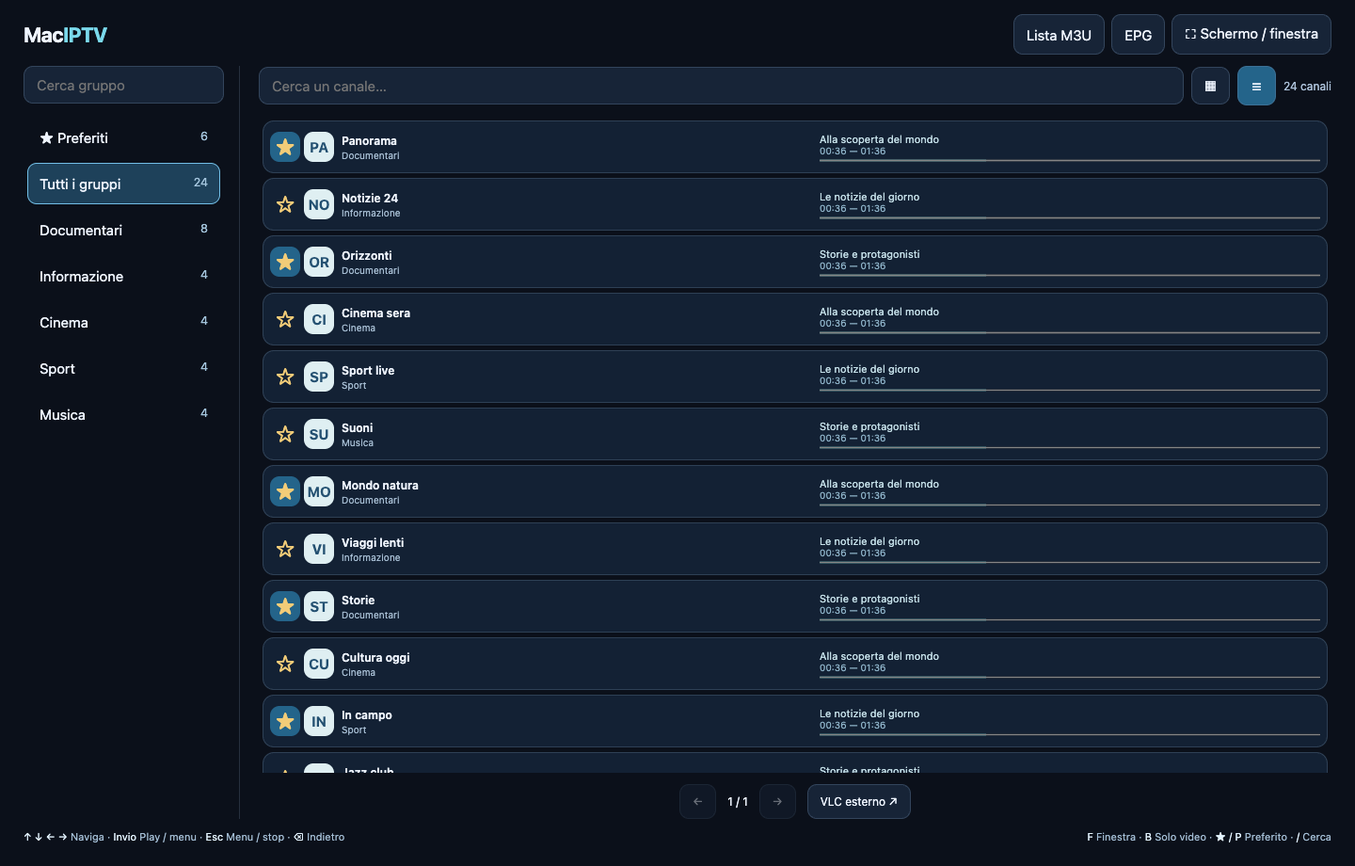
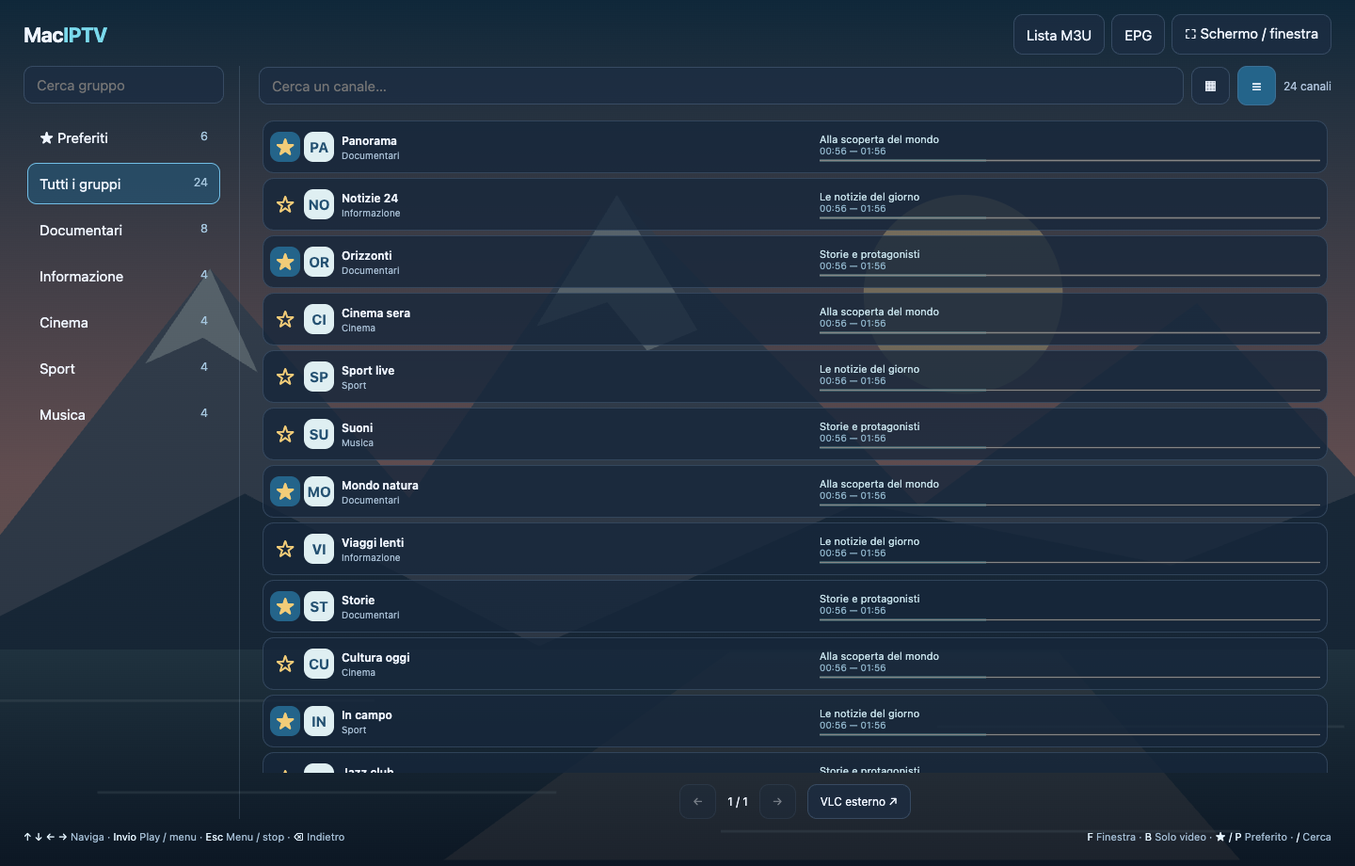
Release stable 1.2.0 with responsive overlays and illustrated catalog background

Changed region(s): [[0.0, 0.0, 1.0, 0.8826], [0.0938, 0.8522, 0.9062, 0.9739]]

diff --git a/docs/index.html b/docs/index.html
@@ -1,12 +1,12 @@
 <!doctype html>
 <html lang="it"><head><meta charset="utf-8"><meta name="viewport" content="width=device-width,initial-scale=1"><title>MacIPTV — La tua IPTV, sul Mac.</title><meta name="description" content="Player IPTV standalone per Mac Intel e Apple Silicon. Liste M3U, gruppi, preferiti, menu sul video e finestra sempre in primo piano. Download Universal gratuito."><meta property="og:title" content="MacIPTV — La tua IPTV, sul Mac."><meta property="og:description" content="Carica la tua lista. Scegli un canale. Guarda come vuoi. Un’unica app per Intel e Apple Silicon."><meta property="og:image" content="https://spacecdr.github.io/MacIPTV/assets/catalogo.png"><meta property="og:url" content="https://spacecdr.github.io/MacIPTV/"><meta name="theme-color" content="#09111b"><link rel="icon" href="assets/icon.svg" type="image/svg+xml"><link rel="stylesheet" href="style.css"></head>
 <body><a class="skip" href="#main">Vai al contenuto</a><header class="nav wrap"><a href="#" class="wordmark"><img src="assets/icon.svg" width="36" height="36" alt="">Mac<span>IPTV</span></a><nav aria-label="Navigazione principale"><a href="#funzioni">Funzionalità</a><a href="#tecnologie">Tecnologie</a><a href="#requisiti">Requisiti</a><a href="https://github.com/spacecdr/MacIPTV" class="github">GitHub ↗</a></nav></header>
-<main id="main"><section class="hero wrap"><div class="eyebrow"><span class="dot"></span> VERSIONE 1.1.5 · OPEN SOURCE</div><h1>La tua IPTV.<br><span>Il tuo Mac.</span></h1><p class="lead">Carica la tua lista. Ritrova i tuoi canali.<br>Guarda a schermo intero o tieni il video accanto a quello che fai.</p><div class="actions"><a class="button primary" href="https://github.com/spacecdr/MacIPTV/releases/download/v1.1.5/MacIPTV-universal.zip">↓ Scarica per macOS <span>Universal</span></a><a class="button secondary" href="https://github.com/spacecdr/MacIPTV">Esplora il progetto ↗</a></div><p class="download-note">Intel + Apple Silicon · macOS 13+ · VLC già incluso</p><a class="small-note" href="#installazione">Prima installazione: firma locale, app non notarizzata →</a><figure class="hero-shot"><div class="window-bar"><span class="lights"><i></i><i></i><i></i></span><span>MacIPTV · Il tuo catalogo</span><span class="window-badge">M3U</span></div><a href="assets/catalogo.png" aria-label="Apri lo screenshot del catalogo"><img src="assets/catalogo.png" width="1440" height="920" alt="Catalogo MacIPTV in griglia con gruppi a sinistra, ricerca e stelle dei preferiti" fetchpriority="high"></a><figcaption>Interfaccia reale, catalogo dimostrativo. Nessuna lista inclusa.</figcaption></figure></section>
+<main id="main"><section class="hero wrap"><div class="eyebrow"><span class="dot"></span> VERSIONE 1.2.0 STABILE · OPEN SOURCE</div><h1>La tua IPTV.<br><span>Il tuo Mac.</span></h1><p class="lead">Carica la tua lista. Ritrova i tuoi canali.<br>Guarda a schermo intero o tieni il video accanto a quello che fai.</p><div class="actions"><a class="button primary" href="https://github.com/spacecdr/MacIPTV/releases/latest/download/MacIPTV-universal.zip">↓ Scarica per macOS <span>Universal</span></a><a class="button secondary" href="https://github.com/spacecdr/MacIPTV">Esplora il progetto ↗</a></div><p class="download-note">Intel + Apple Silicon · macOS 13+ · VLC già incluso</p><a class="small-note" href="#installazione">Prima installazione: firma locale, app non notarizzata →</a><figure class="hero-shot"><div class="window-bar"><span class="lights"><i></i><i></i><i></i></span><span>MacIPTV · Il tuo catalogo</span><span class="window-badge">M3U</span></div><a href="assets/catalogo.png" aria-label="Apri lo screenshot del catalogo"><img src="assets/catalogo.png" width="1440" height="920" alt="Catalogo MacIPTV in griglia con gruppi a sinistra, ricerca e stelle dei preferiti" fetchpriority="high"></a><figcaption>Interfaccia reale, catalogo dimostrativo. Nessuna lista inclusa.</figcaption></figure></section>
 <div class="strip"><div class="wrap strip-grid"><span><b>Un solo download</b>Due architetture native</span><span><b>Player integrato</b>Motore VLC 3.0.24</span><span><b>Anche da tastiera</b>Frecce, Invio, Esc</span><span><b>I dati restano sul Mac</b>Lista e preferiti locali</span></div></div>
-<section class="wrap section"><span class="eyebrow">NOVITÀ 1.1.0</span><h2>Informazioni, guide e più playlist.</h2><p><b>Novità 1.1.5:</b> barra compatta con modali Lista ed EPG; telecomando nelle info, che restano aperte con il mouse sopra e si chiudono con Esc o Backspace. <b>Dalla 1.1.4:</b> risolto il crash al ritorno in finestra dopo lo stop e successivi passaggi fullscreen. <b>Dalla 1.1.3:</b> clic singolo per le info, Esc per aprire l’OSD e poi fermare il video, telecomando visibile solo durante la riproduzione ed elenco compatto con EPG al posto degli URL. Dalla 1.1.2: associazione automatica tramite ID normalizzati e nomi, senza modificare le playlist; protezione dalle ambiguità e dai canali +1/+24. Nel pannello sono distinti i metodi di associazione. Restano disponibili stato EPG visibile, errori di download/XMLTV, conteggi dei canali associati e programmi disponibili, esempi degli ID e pulsante Riprova EPG.</p><p>Premi I per nome, logo, risoluzione e programmi attuale/successivo: il riquadro sfuma dopo 5 secondi. Le guide XMLTV vengono rilevate dalla lista, caricate in background e conservate localmente. Nel catalogo, programma attuale e progressbar; dettagli solo nelle informazioni.</p><p>Il pulsante + aggiunge altre playlist, ognuna con preferiti e navigazione indipendenti. Posizione e dimensioni delle finestre vengono ricordate. B attiva il borderless soltanto durante il video; Esc apre l’OSD e, premuto nell’OSD, ferma il video. B torna alla modalità precedente. Clic tenuto per trascinare, doppio clic per fullscreen e ritorno. Durante il video il ridimensionamento mantiene il rapporto corretto.</p></section><section class="wrap section" id="funzioni"><div class="section-intro"><span class="eyebrow">01 / IL CATALOGO</span><h2>Tutto al suo posto.<br>Subito a portata di mano.</h2><p>Importa una lista da file o URL. Cerca tra i gruppi, filtra i canali e scegli la vista che preferisci.</p></div><div class="feature-grid"><article class="feature"><span class="feature-number">01</span><h3>Le tue liste, senza passaggi extra.</h3><p>File M3U o indirizzo HTTP/HTTPS. Aggiorna le liste remote ed esporta quella salvata. Se l’importazione fallisce, il catalogo precedente resta disponibile.</p><div class="pills"><span>File e URL</span><span>Aggiornamento</span><span>Export</span></div></article><article class="feature"><span class="feature-number">02</span><h3>Una stella, e lo ritrovi.</h3><p>I preferiti hanno il proprio gruppo e restano salvati ai prossimi avvii. La stella è separata dal comando Play: puoi organizzare la lista senza cambiare canale.</p><a href="assets/preferiti.png"><img loading="lazy" src="assets/preferiti.png" width="1440" height="920" alt="Gruppo Preferiti con sei canali dimostrativi e stelle attive"></a></article><article class="feature"><span class="feature-number">03</span><h3>Griglia o elenco. Scegli tu.</h3><p>La griglia mette in evidenza i canali. L’elenco affianca nome e gruppo al programma EPG, con orari e progressione in righe compatte. Ricerca e pagine da 60 elementi rendono consultabili anche cataloghi estesi.</p><a href="assets/elenco.png"><img loading="lazy" src="assets/elenco.png" width="1440" height="920" alt="Vista elenco con nome del canale, gruppo e URL dimostrativo"></a></article><article class="feature keyboard-card"><span class="feature-number">04</span><h3>Il mouse è facoltativo.</h3><p>Muoviti tra gruppi e canali, avvia il player e torna indietro usando i tasti. CH+/CH− seguono il filtro corrente, anche oltre la pagina visualizzata.</p><div class="arrow-keys" aria-hidden="true"><kbd>↑</kbd><div><kbd>←</kbd><kbd>↓</kbd><kbd>→</kbd></div></div><div class="key-pair"><kbd>Invio</kbd><span>Scegli / riproduci</span><kbd>⌫</kbd><span>Torna indietro</span></div></article></div></section>
+<section class="wrap section"><span class="eyebrow">NOVITÀ 1.2.0 · STABILE</span><h2>Più spazio ai canali. Tutto a portata di mano.</h2><p>Lista M3U ed EPG si aprono in modali dalla barra superiore. Playlist multiple, preferiti separati e guida XMLTV in background con cache, associazione automatica e diagnostica. Nell’elenco compatto trovi programma attuale, orari e progressione.</p><p>Le info si adattano alla finestra e includono il telecomando. Restano aperte con il mouse sopra: Esc o Backspace le chiudono. Anche l’OSD si riduce nelle finestre piccole. Il catalogo senza video usa lo sfondo illustrato con montagne.</p><p>Clic per le info, trascinamento per spostare la finestra, doppio clic per fullscreen e ritorno. B attiva il borderless durante il video; Esc apre l’OSD e poi ferma il canale. Sessione e proporzioni video conservate, crash fullscreen dopo stop corretto.</p></section><section class="wrap section" id="funzioni"><div class="section-intro"><span class="eyebrow">01 / IL CATALOGO</span><h2>Tutto al suo posto.<br>Subito a portata di mano.</h2><p>Importa una lista da file o URL. Cerca tra i gruppi, filtra i canali e scegli la vista che preferisci.</p></div><div class="feature-grid"><article class="feature"><span class="feature-number">01</span><h3>Le tue liste, senza passaggi extra.</h3><p>File M3U o indirizzo HTTP/HTTPS. Aggiorna le liste remote ed esporta quella salvata. Se l’importazione fallisce, il catalogo precedente resta disponibile.</p><div class="pills"><span>File e URL</span><span>Aggiornamento</span><span>Export</span></div></article><article class="feature"><span class="feature-number">02</span><h3>Una stella, e lo ritrovi.</h3><p>I preferiti hanno il proprio gruppo e restano salvati ai prossimi avvii. La stella è separata dal comando Play: puoi organizzare la lista senza cambiare canale.</p><a href="assets/preferiti.png"><img loading="lazy" src="assets/preferiti.png" width="1440" height="920" alt="Gruppo Preferiti con sei canali dimostrativi e stelle attive"></a></article><article class="feature"><span class="feature-number">03</span><h3>Griglia o elenco. Scegli tu.</h3><p>La griglia mette in evidenza i canali. L’elenco affianca nome e gruppo al programma EPG, con orari e progressione in righe compatte. Ricerca e pagine da 60 elementi rendono consultabili anche cataloghi estesi.</p><a href="assets/elenco.png"><img loading="lazy" src="assets/elenco.png" width="1440" height="920" alt="Vista elenco con nome del canale, gruppo e URL dimostrativo"></a></article><article class="feature keyboard-card"><span class="feature-number">04</span><h3>Il mouse è facoltativo.</h3><p>Muoviti tra gruppi e canali, avvia il player e torna indietro usando i tasti. CH+/CH− seguono il filtro corrente, anche oltre la pagina visualizzata.</p><div class="arrow-keys" aria-hidden="true"><kbd>↑</kbd><div><kbd>←</kbd><kbd>↓</kbd><kbd>→</kbd></div></div><div class="key-pair"><kbd>Invio</kbd><span>Scegli / riproduci</span><kbd>⌫</kbd><span>Torna indietro</span></div></article></div></section>
 <section class="cinema section" id="video"><div class="wrap"><div class="section-intro"><span class="eyebrow">02 / IL VIDEO</span><h2>Il canale continua.<br>Il menu torna quando serve.</h2><p>Premi <kbd>Invio</kbd> durante la riproduzione. Ritrovi lo stesso catalogo, con filtri e selezione, in semitrasparenza sopra il video.</p></div><figure class="wide-shot"><a href="assets/menu-video.png"><img loading="lazy" src="assets/menu-video.png" width="1440" height="920" alt="Anteprima illustrativa del catalogo semitrasparente sopra un paesaggio grafico dimostrativo"></a><figcaption>Anteprima illustrativa: interfaccia reale su sfondo grafico, non una trasmissione TV.</figcaption></figure><div class="video-features"><article><kbd>F</kbd><h3>Schermo intero o finestra.</h3><p>Al primo avvio l’app parte fullscreen; poi ricorda la sessione. Un tasto la riporta in finestra, e un altro tocco riempie di nuovo lo schermo.</p></article><article><kbd>B</kbd><h3>Solo il video. Sempre visibile.</h3><p>Elimina i bordi e attiva la finestra flottante, anche mentre lavori in un’altra app. Trascina per spostarla, usa l’angolo inferiore destro per ridimensionarla.</p></article><article><kbd>Ⅱ</kbd><h3>Il controllo della riproduzione.</h3><p>Volume, muto, pausa e buffer da 1 a 10 secondi. Se preferisci, puoi affidare il canale a VLC esterno.</p></article></div><div class="floating-demo" role="img" aria-label="Schema illustrativo: finestra video senza bordi sopra una finestra di lavoro"><div class="work-window"><div class="work-top">Il tuo spazio di lavoro</div><div class="work-body"><div class="work-sidebar"></div><div class="work-lines"><i></i><i></i><i></i><i></i><i></i></div></div></div><div class="floating-video"><img src="assets/panorama.svg" alt="" loading="lazy"><span class="resize-mark">⌟</span></div><div class="floating-label"><b>Senza bordi. Sopra le altre finestre.</b><span>Schema illustrativo della modalità flottante · Tasto B</span></div></div></div></section>
 <section class="wrap section" id="tecnologie"><div class="section-intro"><span class="eyebrow">03 / COME È FATTO</span><h2>Nativo dove conta.<br>Completo, in un’unica app.</h2><p>Swift e AppKit gestiscono finestre e comandi. LibVLC riproduce il video. Il catalogo usa una WKWebView locale, senza server da avviare.</p></div><div class="tech-grid"><article><span class="tech-icon">⌘</span><h3>Swift + AppKit</h3><p>Integrazione con macOS, fullscreen e finestre flottanti.</p></article><article><span class="tech-icon">▶</span><h3>LibVLC 3.0.24</h3><p>Motore video, audio e codec già nel pacchetto.</p></article><article><span class="tech-icon">&lt;/&gt;</span><h3>WebKit locale</h3><p>HTML, CSS e JavaScript per catalogo e menu sovrapposto.</p></article><article><span class="tech-icon">◇</span><h3>Universal 2</h3><p>Binari arm64 e x86_64 nello stesso bundle macOS.</p></article></div><p class="tech-foot">Foundation / URLSession per le liste remote · CryptoKit per gli ID dei canali · JSON e scrittura atomica per i dati locali</p></section>
 <section class="wrap section requirements" id="requisiti"><div><span class="eyebrow">04 / PRIMA DI INIZIARE</span><h2>Cosa serve.</h2><ul class="checklist"><li><b>macOS 13 Ventura o successivo</b><span>Mac Intel oppure Apple Silicon.</span></li><li><b>La tua lista M3U</b><span>File o URL, fino a 20 MB. Nessun canale o abbonamento incluso.</span></li><li><b>Accesso agli stream</b><span>Connessione e formati supportati dal motore VLC.</span></li></ul><p>Non serve installare VLC, Python, Homebrew o un browser. VLC separato è richiesto solo per l’opzione di riproduzione esterna.</p></div><div class="install" id="installazione"><h3>Dal download al primo canale.</h3><ol><li>Scarica lo ZIP Universal dalla release.</li><li>Estrai e sposta <b>MacIPTV.app</b> in Applicazioni.</li><li>Apri l’app e scegli <b>Gestisci lista M3U</b>.</li></ol><div class="notice"><b>Firma locale, non notarizzata.</b><p>Se macOS blocca il primo avvio, verifica Privacy e sicurezza → Apri comunque dopo aver tentato l’apertura. Non è necessario disattivare Gatekeeper.</p></div><p class="fine-print">La versione 1.0 è stata provata su Apple Silicon. La 1.1 è un’anteprima: i test grafici non sono stati completati nell’ambiente ristretto. Build Intel inclusa e controllata; prova su hardware Intel fisico ancora da effettuare. Registrazione e DRM non sono inclusi. La guida EPG richiede una sorgente XMLTV presente nella playlist o configurata. Le finestre riservate di sistema possono prevalere sul video flottante.</p></div></section>
 <section class="wrap shortcuts section"><div><span class="eyebrow">IL TELECOMANDO È GIÀ QUI</span><h2>Pochi tasti.<br>Tutto sotto controllo.</h2></div><dl><div><dt><kbd>Invio</kbd></dt><dd>Play / apri il menu sul video</dd></div><div><dt><kbd>Esc</kbd></dt><dd>Apri OSD / interrompi il video</dd></div><div><dt><kbd>F</kbd> <kbd>B</kbd></dt><dd>Fullscreen / video senza bordi</dd></div><div><dt><kbd>Spazio</kbd> <kbd>M</kbd></dt><dd>Pausa / muto</dd></div><div><dt><kbd>P</kbd> <kbd>/</kbd></dt><dd>Preferito / cerca nel catalogo</dd></div></dl></section>
-<section class="wrap final-cta"><img src="assets/icon.svg" width="72" height="72" alt=""><h2>Pronto per la tua lista.</h2><p>Una sola app per il tuo Mac. Sorgenti aperti, player incluso.</p><a class="button primary" href="https://github.com/spacecdr/MacIPTV/releases/download/v1.1.5/MacIPTV-universal.zip">↓ Scarica MacIPTV 1.1.5</a><a class="release-link" href="https://github.com/spacecdr/MacIPTV/releases/tag/v1.1.5">Note della release, sorgenti e checksum ↗</a></section></main>
+<section class="wrap final-cta"><img src="assets/icon.svg" width="72" height="72" alt=""><h2>Pronto per la tua lista.</h2><p>Una sola app per il tuo Mac. Sorgenti aperti, player incluso.</p><a class="button primary" href="https://github.com/spacecdr/MacIPTV/releases/latest/download/MacIPTV-universal.zip">↓ Scarica MacIPTV 1.2.0</a><a class="release-link" href="https://github.com/spacecdr/MacIPTV/releases/latest">Note della release, sorgenti e checksum ↗</a></section></main>
 <footer class="wrap footer"><a class="wordmark" href="https://github.com/spacecdr">spacecdr <span>/ MacIPTV</span></a><div><a href="https://github.com/spacecdr/MacIPTV">Sorgenti</a><a href="https://github.com/spacecdr/MacIPTV/issues">Segnala un problema</a><a href="https://github.com/spacecdr/MacIPTV/blob/main/THIRD_PARTY.md">Licenze</a></div><p>GPL-3.0-or-later · Canali nelle immagini inventati. Sfondi video illustrativi. Nessuna affiliazione con Apple o VideoLAN.</p></footer></body></html>

diff --git a/Resources/index.html b/Resources/index.html
@@ -1,5 +1,5 @@
 <!doctype html>
-<html lang="it"><head><meta charset="utf-8"><meta name="viewport" content="width=device-width,initial-scale=1"><meta http-equiv="Content-Security-Policy" content="default-src 'none'; script-src 'unsafe-inline'; style-src 'unsafe-inline'; img-src https: http: data:; connect-src 'none'"><title>MacIPTV</title>
+<html lang="it"><head><meta charset="utf-8"><meta name="viewport" content="width=device-width,initial-scale=1"><meta http-equiv="Content-Security-Policy" content="default-src 'none'; script-src 'unsafe-inline'; style-src 'unsafe-inline'; img-src 'self' https: http: data:; connect-src 'none'"><title>MacIPTV</title>
 <style>
 :root{color-scheme:dark;font:15px -apple-system,BlinkMacSystemFont,sans-serif;color:#eff5ff}*{box-sizing:border-box}html,body{margin:0;height:100%;background:transparent}body{padding:25px;background:#0a101bee;display:flex;flex-direction:column;gap:16px;overflow:hidden}body.playing{background:#09101cb8}button,input,select{font:inherit;color:inherit;border:1px solid #728bad50;border-radius:10px;background:#1c2d43b8;padding:10px 13px}button{cursor:pointer}button:hover{background:#325377}button:focus-visible,input:focus-visible,select:focus-visible,summary:focus-visible,a:focus-visible{outline:3px solid #8bddff;outline-offset:2px}button[aria-pressed=true]{background:#24648a}button:disabled{opacity:.4;cursor:default}header{display:flex;align-items:center;gap:12px}h1{font-size:25px;letter-spacing:-.5px;margin:0}h1 small{font-weight:400;font-size:12px;display:block;color:#a1b4ce;margin-top:4px}.brand{flex:1}.accent{color:#7ad9ec}.tools{display:flex;gap:7px;flex-wrap:wrap}details{border:1px solid #6c8dab44;border-radius:12px;padding:11px 15px;background:#17243799}summary{cursor:pointer;color:#c4daed}.row{display:flex;gap:8px;align-items:center;flex-wrap:wrap;margin-top:12px}.row input{min-width:100px;flex:1}.muted{color:#abc0d8;font-size:12px}.transport{display:flex;align-items:center;gap:10px;padding:12px 16px;border:1px solid #77baca50;border-radius:12px;background:#183b4c99}.now{flex:1;min-width:80px}.now strong{display:block;white-space:nowrap;overflow:hidden;text-overflow:ellipsis}.now small{display:block;color:#9fc3d4;margin-top:4px}.transport input{width:90px;padding:0}.workspace{display:grid;grid-template-columns:230px minmax(0,1fr);gap:20px;min-height:0;flex:1}aside{display:flex;flex-direction:column;min-height:0;border-right:1px solid #92b0cd33;padding-right:16px}input[type=search]{width:100%}#groups{overflow:auto;display:flex;flex-direction:column;gap:5px;margin-top:10px;padding:4px}#groups button{display:flex;justify-content:space-between;text-align:left;gap:8px;background:transparent;border-color:transparent;padding:12px}#groups button.selected{background:#255270bd;border-color:#72bee6}#groups small{color:#a4c5dd}.content{min-width:0;min-height:0;display:flex;flex-direction:column;gap:12px}.toolbar{display:flex;gap:8px;align-items:center}.toolbar input{flex:1;min-width:50px}#cards{overflow:auto;display:grid;grid-template-columns:repeat(auto-fill,minmax(215px,1fr));gap:10px;align-content:start;min-height:0;padding:4px;flex:1}.channel{position:relative;border-radius:12px;border:1px solid #7694b044;background:#16263ac9;min-width:0;display:grid;grid-template-columns:38px minmax(0,1fr);align-items:center;padding:5px}.channel.now-playing{border-color:#6cdbb7}.star{border:0;background:transparent;color:#f2cc78;padding:8px 5px;font-size:24px}.play{display:flex;align-items:center;gap:11px;text-align:left;border:0;background:transparent;padding:12px 5px;min-width:0;min-height:77px;width:100%}.logo{display:grid;place-items:center;border-radius:10px;width:42px;height:42px;flex:0 0 42px;background:#dfeff2;color:#235071;font-weight:700;overflow:hidden}.logo img{width:100%;height:100%;object-fit:contain}.title{font-weight:600;overflow-wrap:anywhere}.sub{display:block;font-size:11px;color:#a7bed4;margin-top:5px}#cards.list{grid-template-columns:minmax(0,1fr);gap:5px}#cards.list .channel{grid-template-columns:32px minmax(0,1fr) minmax(0,1fr);padding:3px 7px}#cards.list .play{min-height:48px;padding:4px;gap:8px}#cards.list .logo{width:32px;height:32px;flex-basis:32px}#cards.list .channel-text{min-width:0}#cards.list .title{font-size:12px;white-space:nowrap;overflow:hidden;text-overflow:ellipsis}#cards.list .sub{margin-top:2px;font-size:10px;white-space:nowrap;overflow:hidden;text-overflow:ellipsis}.pager{display:flex;justify-content:center;align-items:center;gap:12px;font-size:12px}footer{font-size:11px;color:#a3bdd4;display:flex;justify-content:space-between;gap:10px}kbd{color:#e4f4ff;font-family:inherit}#error{background:#6d2d3bef;border:1px solid #eb8d97;padding:12px;border-radius:10px;display:flex;align-items:center;gap:12px}#error span{flex:1}#error[hidden]{display:none}#empty{color:#bad1e4;padding:30px;text-align:center}#empty[hidden]{display:none}.primary{background:#236585}.spacer{flex:1}::-webkit-scrollbar{width:7px;height:6px}::-webkit-scrollbar-thumb{background:#708fa677;border-radius:8px}
 @media(max-width:850px){body{padding:14px;gap:10px}.workspace{grid-template-columns:180px minmax(0,1fr);gap:10px}header{flex-wrap:wrap}h1{font-size:20px}.tools button{padding:8px}.transport{flex-wrap:wrap}.transport .now{flex-basis:50%}footer .extra{display:none}}
@@ -11,7 +11,7 @@ body.playing #playlistManagement,body.playing #addPlaylist{display:none!importan
 #cards.list .guide-now{margin:0 0 0 10px;min-width:0;font-size:11px}
 #cards.list .guide-now>span{display:block;white-space:nowrap;overflow:hidden;text-overflow:ellipsis}
 #cards.list .guide-now progress{margin-top:3px}#cards.list .star{padding:4px;font-size:21px}
-.modal-head{display:flex;align-items:center;justify-content:space-between;gap:12px}.modal-head h2{margin:0;font-size:19px}dialog{max-height:85vh;overflow:auto}#epgPanel{padding:20px;max-width:660px}#epgPanel[open]{max-height:85vh}#playlistBar{margin-top:15px}.brand small{display:none}body{gap:12px;padding-top:15px}header h1{font-size:22px}</style></head><body>
+.modal-head{display:flex;align-items:center;justify-content:space-between;gap:12px}.modal-head h2{margin:0;font-size:19px}dialog{max-height:85vh;overflow:auto}#epgPanel{padding:20px;max-width:660px}#epgPanel[open]{max-height:85vh}#playlistBar{margin-top:15px}.brand small{display:none}body{gap:12px;padding-top:15px}header h1{font-size:22px}body:not(.playing){background:linear-gradient(#0a101b88,#0a101baa),url('panorama.svg') center/cover no-repeat}body.playing{background-image:none}</style></head><body>
 <header><div class="brand"><h1>Mac<span class="accent">IPTV</span><small>La tua televisione, sul Mac.</small></h1></div><div class="tools"><button id="return" onclick="send('hide')" hidden>↩ Torna al video</button><button id="listButton" onclick="$('settings').showModal()">Lista M3U</button><button id="epgButton" onclick="$('epgPanel').showModal()">EPG</button><button onclick="send('full')" title="F — Schermo intero / finestra">⛶ Schermo / finestra</button></div></header>
 <dialog id="settings" aria-labelledby="settingsTitle"><div class="modal-head"><h2 id="settingsTitle">Gestisci lista M3U</h2><button onclick="this.closest('dialog').close()" aria-label="Chiudi">✕</button></div><div id="playlistBar"><select id="playlistSelect" aria-label="Lista IPTV" onchange="saveBrowse();send('selectPlaylist',{id:this.value})" hidden></select><button id="addPlaylist" onclick="editList(true)" title="Aggiungi lista">＋</button><span id="playlistName"></span></div><div id="playlistManagement"><div class="row"><input id="source" type="url" placeholder="https://…/playlist.m3u" aria-label="URL della lista"><button class="primary" onclick="send('import',{url:$('source').value})">Scarica</button><button onclick="send('refresh')">Aggiorna</button></div><div class="row"><button onclick="send('open')">Apri file M3U…</button><button onclick="send('export')">Esporta lista…</button><button onclick="editList(false)">Modifica…</button><button onclick="send('removePlaylist')">Rimuovi…</button><span class="muted" id="info">Nessuna lista caricata</span></div></div></dialog>
 <dialog id="epgPanel" aria-labelledby="epgTitle"><div class="modal-head"><h2 id="epgTitle">Guida EPG</h2><button onclick="this.closest('dialog').close()" aria-label="Chiudi">✕</button></div><p id="epgStatus" role="status" aria-live="polite">EPG · In attesa…</p><p id="epgDetail" class="muted"></p><p id="epgHint" class="muted"></p><p id="epgExamples" class="muted"></p><button id="epgRefresh" onclick="send('refreshEPG')">Riprova EPG</button></dialog>
@@ -21,6 +21,8 @@ body.playing #playlistManagement,body.playing #addPlaylist{display:none!importan
 <dialog id="playlistEditor"><form method="dialog" onsubmit="event.preventDefault();commitList()"><h2 id="editorTitle">Lista IPTV</h2><label>Nome<input id="editName" required maxlength="100"></label><label>URL M3U <small>(vuoto per scegliere un file)</small><input id="editSource" type="url"></label><label>URL XMLTV opzionale<input id="editGuide" type="url" placeholder="Automatico dalla playlist, se presente"></label><p class="muted">La guida si aggiorna in background. Nessun account aggiuntivo richiesto.</p><div class="row"><button type="button" onclick="$ ('playlistEditor').close()">Annulla</button><button type="submit">Salva / carica</button></div></form></dialog>
 <script>
 'use strict';
+function scaleOSD(){const scale=Math.min(1,Math.max(.55,Math.min(innerWidth/800,innerHeight/560)));document.body.style.zoom=scale;document.body.style.width=innerWidth/scale+'px';document.body.style.height=innerHeight/scale+'px'}
+window.addEventListener('resize',scaleOSD);scaleOSD();
 const $=id=>document.getElementById(id), pageSize=60;
 let lists=[],activeList='',editingID='',guideData={},restoring=false;
 let channels=[], favorites=new Set(), filtered=[], group='@all', page=0, current='', mode='grid', selected='', lastFocus='', active=false;

diff --git a/Resources/info.html b/Resources/info.html
@@ -1,6 +1,6 @@
 <!doctype html><html lang="it"><meta charset="utf-8"><meta http-equiv="Content-Security-Policy" content="default-src 'none'; style-src 'unsafe-inline'; script-src 'unsafe-inline'; img-src https: http: data:"><style>
 *{box-sizing:border-box}body{margin:0;background:transparent;color:#edf6ff;font:16px -apple-system,sans-serif;opacity:0;transition:opacity .22s}body.shown{opacity:1}article{position:fixed;bottom:5vh;left:5%;right:5%;max-height:85vh;overflow:auto;background:#0c1b2be0;border:1px solid #7fbdcf66;border-radius:16px;padding:24px;box-shadow:0 12px 40px #0005}header{display:flex;align-items:center;gap:16px}#logo{width:58px;height:58px;object-fit:contain;background:#dbeaf1;border-radius:9px}h1{margin:0;font-size:25px}#resolution,time{color:#a8c6db;font-size:13px}h2{font-size:20px;margin:18px 0 7px}p{line-height:1.5;margin:8px 0}#description{display:-webkit-box;-webkit-line-clamp:5;-webkit-box-orient:vertical;overflow:hidden;color:#c7d7e5;font-size:14px}progress{width:100%;height:5px;accent-color:#72d7de}#next{border-top:1px solid #536c8055;padding-top:12px;font-size:14px}#missing{color:#9fb4c8;font-size:13px}@media(max-width:600px){article{padding:15px}h1{font-size:19px}h2{font-size:16px}#description{-webkit-line-clamp:3}}
-.remote{display:flex;flex-wrap:wrap;gap:8px;align-items:center;border-top:1px solid #536c8055;margin-top:14px;padding-top:12px}.remote button,.remote select{background:#224158;color:inherit;border:1px solid #658da366;border-radius:8px;padding:8px;font:inherit;font-size:13px}.remote input{width:100px;accent-color:#72d7de}.remote label{font-size:12px}button:focus-visible,input:focus-visible,select:focus-visible{outline:2px solid #72d7de}</style><article><header><img id="logo" alt=""><div><h1 id="name"></h1><div id="resolution"></div></div></header><section id="programme"><h2 id="title"></h2><time id="time"></time><progress id="progress" max="1"></progress><p id="description"></p></section><p id="missing">Programmazione non disponibile</p><p id="next"></p><div class="remote"><button onclick="send('pause')" aria-label="Pausa o riprendi">Ⅱ / ▶</button><button onclick="send('stop')">■ Stop</button><button onclick="send('infoStep',{delta:-1})">CH−</button><button onclick="send('infoStep',{delta:1})">CH+</button><button id="mute" onclick="send('mute')">Audio</button><input id="volume" type="range" min="0" max="100" aria-label="Volume" oninput="send('volume',{value:Number(this.value)})"><label>Buffer <select id="buffer" onchange="send('buffer',{value:Number(this.value)})"><option value="1">1 s</option><option value="3">3 s</option><option value="6">6 s</option><option value="10">10 s</option></select></label></div></article><script>
+.remote{display:flex;flex-wrap:wrap;gap:8px;align-items:center;border-top:1px solid #536c8055;margin-top:14px;padding-top:12px}.remote button,.remote select{background:#224158;color:inherit;border:1px solid #658da366;border-radius:8px;padding:8px;font:inherit;font-size:13px}.remote input{width:100px;accent-color:#72d7de}.remote label{font-size:12px}button:focus-visible,input:focus-visible,select:focus-visible{outline:2px solid #72d7de}body{font-size:clamp(10px,min(1.45vw,2.5vh),22px)}article{padding:1.3em;border-radius:1em}header{gap:1em}#logo{width:3.5em;height:3.5em}h1{font-size:1.5em}h2{font-size:1.2em;margin:1em 0 .4em}#resolution,time,#missing{font-size:.8em}#description,#next{font-size:.85em}p{margin:.5em 0}.remote{gap:.5em;margin-top:.8em;padding-top:.7em}.remote button,.remote select{font-size:.85em;padding:.5em}.remote label{font-size:.8em}.remote input{width:6em}#next{padding-top:.7em}</style><article><header><img id="logo" alt=""><div><h1 id="name"></h1><div id="resolution"></div></div></header><section id="programme"><h2 id="title"></h2><time id="time"></time><progress id="progress" max="1"></progress><p id="description"></p></section><p id="missing">Programmazione non disponibile</p><p id="next"></p><div class="remote"><button onclick="send('pause')" aria-label="Pausa o riprendi">Ⅱ / ▶</button><button onclick="send('stop')">■ Stop</button><button onclick="send('infoStep',{delta:-1})">CH−</button><button onclick="send('infoStep',{delta:1})">CH+</button><button id="mute" onclick="send('mute')">Audio</button><input id="volume" type="range" min="0" max="100" aria-label="Volume" oninput="send('volume',{value:Number(this.value)})"><label>Buffer <select id="buffer" onchange="send('buffer',{value:Number(this.value)})"><option value="1">1 s</option><option value="3">3 s</option><option value="6">6 s</option><option value="10">10 s</option></select></label></div></article><script>
 function send(action,values={}){window.webkit?.messageHandlers.native.postMessage({action,...values})}
 function reportBounds(){const r=document.querySelector('article').getBoundingClientRect();send('infoBounds',{x:r.x,y:r.y,width:r.width,height:r.height})}
 new ResizeObserver(reportBounds).observe(document.querySelector('article'));window.addEventListener('resize',reportBounds);

diff --git a/README.md b/README.md
@@ -2,7 +2,7 @@
 
 **Liste M3U, canali e preferiti. La tua IPTV sul Mac, con il player già incluso.**
 
-[Scarica per Intel e Apple Silicon](https://github.com/spacecdr/MacIPTV/releases/tag/v1.1.5) · [Pagina del progetto](https://spacecdr.github.io/MacIPTV/) · [Comandi](#comandi) · [Compilazione e test](DEVELOPMENT.md)
+[Scarica per Intel e Apple Silicon](https://github.com/spacecdr/MacIPTV/releases/latest) · [Pagina del progetto](https://spacecdr.github.io/MacIPTV/) · [Comandi](#comandi) · [Compilazione e test](DEVELOPMENT.md)
 
 ![Catalogo MacIPTV: gruppi, ricerca e canali in griglia](docs/assets/catalogo.png)
 
@@ -12,7 +12,7 @@ MacIPTV è un’applicazione standalone per macOS: carichi una lista M3U da file
 
 ## Download e installazione
 
-1. Scarica **MacIPTV-universal.zip** dalla [release](https://github.com/spacecdr/MacIPTV/releases/tag/v1.1.5).
+1. Scarica **MacIPTV-universal.zip** dalla [release](https://github.com/spacecdr/MacIPTV/releases/latest).
 2. Estrai lo ZIP e trascina **MacIPTV.app** in **Applicazioni**.
 3. Apri l’app e usa **Gestisci lista M3U** per caricare un file o incollare un URL.
 
@@ -53,7 +53,7 @@ La vista elenco affianca nome e gruppo al programma EPG, con orari e progression
 
 *Anteprima illustrativa: l’interfaccia reale è mostrata su uno sfondo grafico dimostrativo, non su una trasmissione TV.*
 
-Durante la riproduzione, **Invio** riapre lo stesso catalogo senza fermare il player. Seleziona un altro canale oppure torna al video. **B** attiva la finestra flottante; trascina il video per spostarla e l’angolo inferiore destro per ridimensionarla. Premendo di nuovo B ripristini la finestra precedente.
+Durante la riproduzione, **Invio** riapre lo stesso catalogo senza fermare il player. Seleziona un altro canale oppure torna al video. **B** attiva la finestra flottante; trascina il video per spostarla e l’angolo inferiore destro per ridimensionarla. Premendo di nuovo B ripristini la finestra precedente. Il clic singolo apre le info con il telecomando; il mouse sul box ne sospende la chiusura.
 
 ## Comandi
 
@@ -75,7 +75,7 @@ Durante la riproduzione, **Invio** riapre lo stesso catalogo senza fermare il pl
 | Cmd+L | Catalogo | Catalogo |
 | Cmd+Q | Esci | Esci |
 
-Nei campi di testo, frecce e Backspace mantengono il normale comportamento di modifica; Esc torna alla navigazione. Tab e Shift+Tab raggiungono gli altri controlli. Nella modalità senza bordi, doppio clic sul video alterna fullscreen e modalità precedente.
+Nei campi di testo, frecce e Backspace mantengono il normale comportamento di modifica. Esc chiude prima un modale o le info; nell’OSD interrompe il video. Tab e Shift+Tab raggiungono gli altri controlli. Nella modalità senza bordi, doppio clic sul video alterna fullscreen e modalità precedente.
 
 ## Requisiti
 
@@ -111,53 +111,16 @@ Lista e preferiti sono in `~/Library/Application Support/IPTVMac/`. Gli URL poss
 
 Consulta [DEVELOPMENT.md](DEVELOPMENT.md) per build, test e struttura del progetto. Il codice dell’app è distribuito con licenza **GPL-3.0-or-later**. VLC e le sue dipendenze conservano le rispettive licenze: dettagli, sorgenti e riferimenti in [THIRD_PARTY.md](THIRD_PARTY.md).
 
-## Novità della versione 1.1.0
+## 1.2.0 — Stabile
 
-- **I / informazioni:** nome, logo, dimensioni effettive del video e categoria SD/HD/Full HD/UHD quando applicabile. Non vengono attribuite sigle progressive/interlacciate se il motore non le rende disponibili. Programma attuale, descrizione, orari e programma successivo quando presenti. Dissolvenza, chiusura automatica dopo 5 secondi o premendo di nuovo I.
-- **EPG in background:** scoperta degli URL XMLTV tramite `x-tvg-url`, `url-tvg` o `tvg-url` dell’M3U. URL personalizzabile dalla modifica della lista. Supporto XML e gzip, cache locale, aggiornamento periodico senza attesa per navigazione o playback. Nessuna registrazione o servizio aggiuntivo. Se manca una guida, non vengono inventati programmi. Associazione tramite `tvg-id`, oppure nome esatto non ambiguo. In catalogo: titolo, orari e progressbar; descrizione soltanto nelle informazioni.
-- **Più playlist:** + aggiunge una lista; con almeno due liste compare il selettore. Modifica nome/sorgente/guida, aggiorna, esporta e rimuovi con conferma. Preferiti e stato di navigazione separati. La copia offline riguarda il catalogo, non i flussi video remoti. Migrazione automatica della precedente lista e dei preferiti.
-- **OSD essenziale:** gestione delle liste nascosta durante la riproduzione; il selettore resta utilizzabile per consultare altri cataloghi.
-- **Finestre:** primo avvio fullscreen; successivamente modalità, posizione e dimensioni vengono ricordate. Una sessione chiusa in borderless riparte in finestra normale. La geometria borderless viene conservata separatamente. Finestre riportate nell’area dei monitor disponibili.
-- **B solo durante il video**, senza pulsante Solo video. Esc dal borderless torna alla modalità precedente. Clic tenuto sul video trascina la finestra normale o borderless senza aprire l’OSD. Doppio clic alterna fullscreen e modalità precedente. Invio apre il catalogo.
-- **Ridimensionamento proporzionale:** durante il video il rapporto include il pixel aspect ratio; senza riproduzione il ridimensionamento è libero. Nessuna riproduzione automatica alla riapertura.
+- Info proporzionate alle dimensioni della finestra e OSD ridotto automaticamente nelle finestre piccole.
+- Sfondo illustrato con montagne nel catalogo quando non è in riproduzione un canale.
+- Barra compatta: modali Lista M3U ed EPG, playlist multiple e preferiti separati.
+- EPG XMLTV/gzip in background, cache, normalizzazione ID/nomi con controllo ambiguità e diagnostica.
+- Telecomando nelle info, mantenute aperte col mouse sopra; Esc/Backspace le chiudono.
+- Elenco compatto con programma, orari e progressione; dettagli nelle info.
+- Clic per info, trascinamento finestra, doppio clic fullscreen/ritorno, B borderless durante il video.
+- Esc apre OSD e poi ferma il video; Backspace conserva la navigazione. Sessione e proporzioni video ricordate.
+- Correzione del crash fullscreen dopo stop. Download del sito e README collegati alla release stabile più recente.
 
-**Verifica 1.1:** build Universal e test mirati di XMLTV, migrazione e più playlist completati. Test browser e nativi non completati a causa delle restrizioni dell’ambiente corrente; trattare questa build come anteprima.
-
-## 1.1.1 — Feedback EPG
-
-Il riquadro **EPG**, sotto la gestione della playlist e visibile anche nell’OSD, mostra subito stato e conteggi. Aprilo per i dettagli: fonti, canali con tvg-id, canali associati, programmi presenti, canali con programmi attuali/successivi, data della copia utilizzata ed esempi di ID non associati. **Riprova EPG** forza un nuovo tentativo senza aspettare un’ora.
-
-Gli errori distinguono HTTP, timeout/DNS/HTTPS, file non leggibile, gzip non valido e XMLTV non valido. Gli URL con credenziali non vengono riportati nei messaggi. Un download riuscito non implica che i canali abbiano programmi nell’orario attuale: associazione e copertura temporale sono conteggiate separatamente.
-
-## 1.1.2 — Associazione EPG automatica
-
-La playlist resta invariata. MacIPTV cerca prima l’ID esatto, poi confronta gli ID ignorando maiuscole, spazi, punti, trattini e underscore. Se necessario, confronta i nomi ripulendo i prefissi italiani IT-/IT|/IT: e i suffissi di qualità separati SD/HD/FHD/UHD/4K/H264/H265/HEVC.
-
-Gli abbinamenti automatici richiedono un unico canale della guida. Ambiguità e nomi discordanti non vengono risolti arbitrariamente. Numeri e +1/+24 restano distinti. Il pannello EPG distingue ID esatti, ID normalizzati, associazioni per nome, ambigui e mancanti. Le guide già in cache restano compatibili; nessuna nuova sorgente viene imposta.
-
-Build Universal Intel/Apple Silicon, macOS 13+, firma locale non notarizzata. Verificati abbinamenti, collisioni, timeshift, cache e feedback EPG con test mirati. Nessuna modifica al motore video.
-
-## 1.1.3 — Comandi e catalogo compatto
-
-- Clic singolo sul video: informazioni del canale. Trascinamento e ridimensionamento non attivano le info; doppio clic mantiene fullscreen/ritorno. Il clic singolo attende l’intervallo del doppio clic.
-- Esc dal video apre l’OSD, anche in borderless; Esc nell’OSD interrompe la riproduzione. Backspace conserva la navigazione precedente. B resta disponibile per uscire dal borderless.
-- Telecomando nascosto quando non è selezionato un canale in riproduzione.
-- Vista elenco compatta: nome/gruppo affiancati al programma EPG, orari e progressione. Rimossi gli URL dalle righe. Descrizioni dei programmi soltanto nelle info.
-
-Build Universal Intel/Apple Silicon, macOS 13+, firma locale non notarizzata.
-
-## 1.1.4 — Correzione crash fullscreen
-
-Corretto il crash al ritorno in finestra dopo lo stop del video e successivi passaggi fullscreen/finestra, tramite F o pulsante. Il ripristino del ridimensionamento libero ora usa gli incrementi della finestra anziché impostare un rapporto 0:0, che poteva produrre un’altezza NaN in AppKit. Il rapporto proporzionale durante il video resta attivo.
-
-Aggiunta regressione nativa con due cicli fullscreen/finestra dopo Esc/OSD/stop, controllo delle dimensioni e del ridimensionamento libero.
-
-Build Universal Intel/Apple Silicon, macOS 13+, firma locale non notarizzata.
-
-## 1.1.5 — Catalogo compatto e telecomando nelle info
-
-Lista M3U ed EPG sono pulsanti nella barra superiore e aprono modali. Il selettore della playlist, il nome e il pulsante + sono nel modale Lista; durante la riproduzione resta disponibile il solo selettore.
-
-Il telecomando è esclusivamente nel box informazioni: pausa, stop, cambio canale, muto, volume e buffer. Le info restano aperte quando il mouse è sopra il box; dopo l’uscita riparte il timer di 5 secondi. Esc o Backspace chiudono le info anche con il puntatore sopra. I clic fuori dal box restano disponibili per i gesti del video.
-
-Build Universal Intel/Apple Silicon, macOS 13+, firma locale non notarizzata.
+Universal Intel/Apple Silicon, macOS 13+, VLC incluso. Firma ad hoc, non notarizzata Apple. Intel fisico non verificato.

diff --git a/HANDOFF.md b/HANDOFF.md
@@ -25,3 +25,7 @@ Log utente 00:39: AppKit NSInternalInconsistencyException in setupWindowForAfter
 ## 2 ottobre — layout/telecomando 1.1.5
 
 Lista ed EPG in dialog modali aperti dai pulsanti header, playlistBar nel modale Lista. Gestione nascosta in playback, selettore conservato. Telecomando trasferito da index.html a info.html, bridge WKWebView abilitato solo sul rettangolo del box comunicato da ResizeObserver. Timer nativo controlla il puntatore ogni 250ms: permanenza sospende la chiusura, uscita riavvia 5s. Monitor tastiera chiude le info con Esc/Backspace prima delle altre azioni, anche con focus sui controlli. Cambio canale dal telecomando conserva le info. Test browser modali/keyboard/layout/telecomando e feedback passati; build Universal/firma passate. Screenshot sintetici aggiornati. Release 1.1.5 predisposta; smoke nativo e regressione fullscreen passati su Apple Silicon. Hover e gesti fisici non verificati manualmente; nessun test Intel fisico.
+
+## 2 ottobre — 1.2.0 stabile
+
+Info con font/spazi em scalati sul viewport; OSD zoom tra .55 e 1 sotto 800×560 con dimensioni compensate. Sfondo panorama.svg incluso nel bundle e usato solo senza playback. README/sito consolidati sulle funzionalità attuali, immagini aggiornate e link releases/latest/download. Publish 1.2.0 usa --latest, non prerelease. Build Universal/firma e test browser (scaling, modali, EPG, controlli)/sito completati. Nessun nuovo intervento nativo rispetto alla 1.1.5; limiti Intel fisico e notarizzazione invariati.

diff --git a/release/notes-v1.2.0.md b/release/notes-v1.2.0.md
@@ -1,0 +1,13 @@
+# MacIPTV 1.2.0 — Stabile
+
+- Info proporzionate alle dimensioni della finestra e OSD ridotto automaticamente nelle finestre piccole.
+- Sfondo illustrato con montagne nel catalogo quando non è in riproduzione un canale.
+- Barra compatta: modali Lista M3U ed EPG, playlist multiple e preferiti separati.
+- EPG XMLTV/gzip in background, cache, normalizzazione ID/nomi con controllo ambiguità e diagnostica.
+- Telecomando nelle info, mantenute aperte col mouse sopra; Esc/Backspace le chiudono.
+- Elenco compatto con programma, orari e progressione; dettagli nelle info.
+- Clic per info, trascinamento finestra, doppio clic fullscreen/ritorno, B borderless durante il video.
+- Esc apre OSD e poi ferma il video; Backspace conserva la navigazione. Sessione e proporzioni video ricordate.
+- Correzione del crash fullscreen dopo stop. Download del sito e README collegati alla release stabile più recente.
+
+Universal Intel/Apple Silicon, macOS 13+, VLC incluso. Firma ad hoc, non notarizzata Apple. Intel fisico non verificato.
